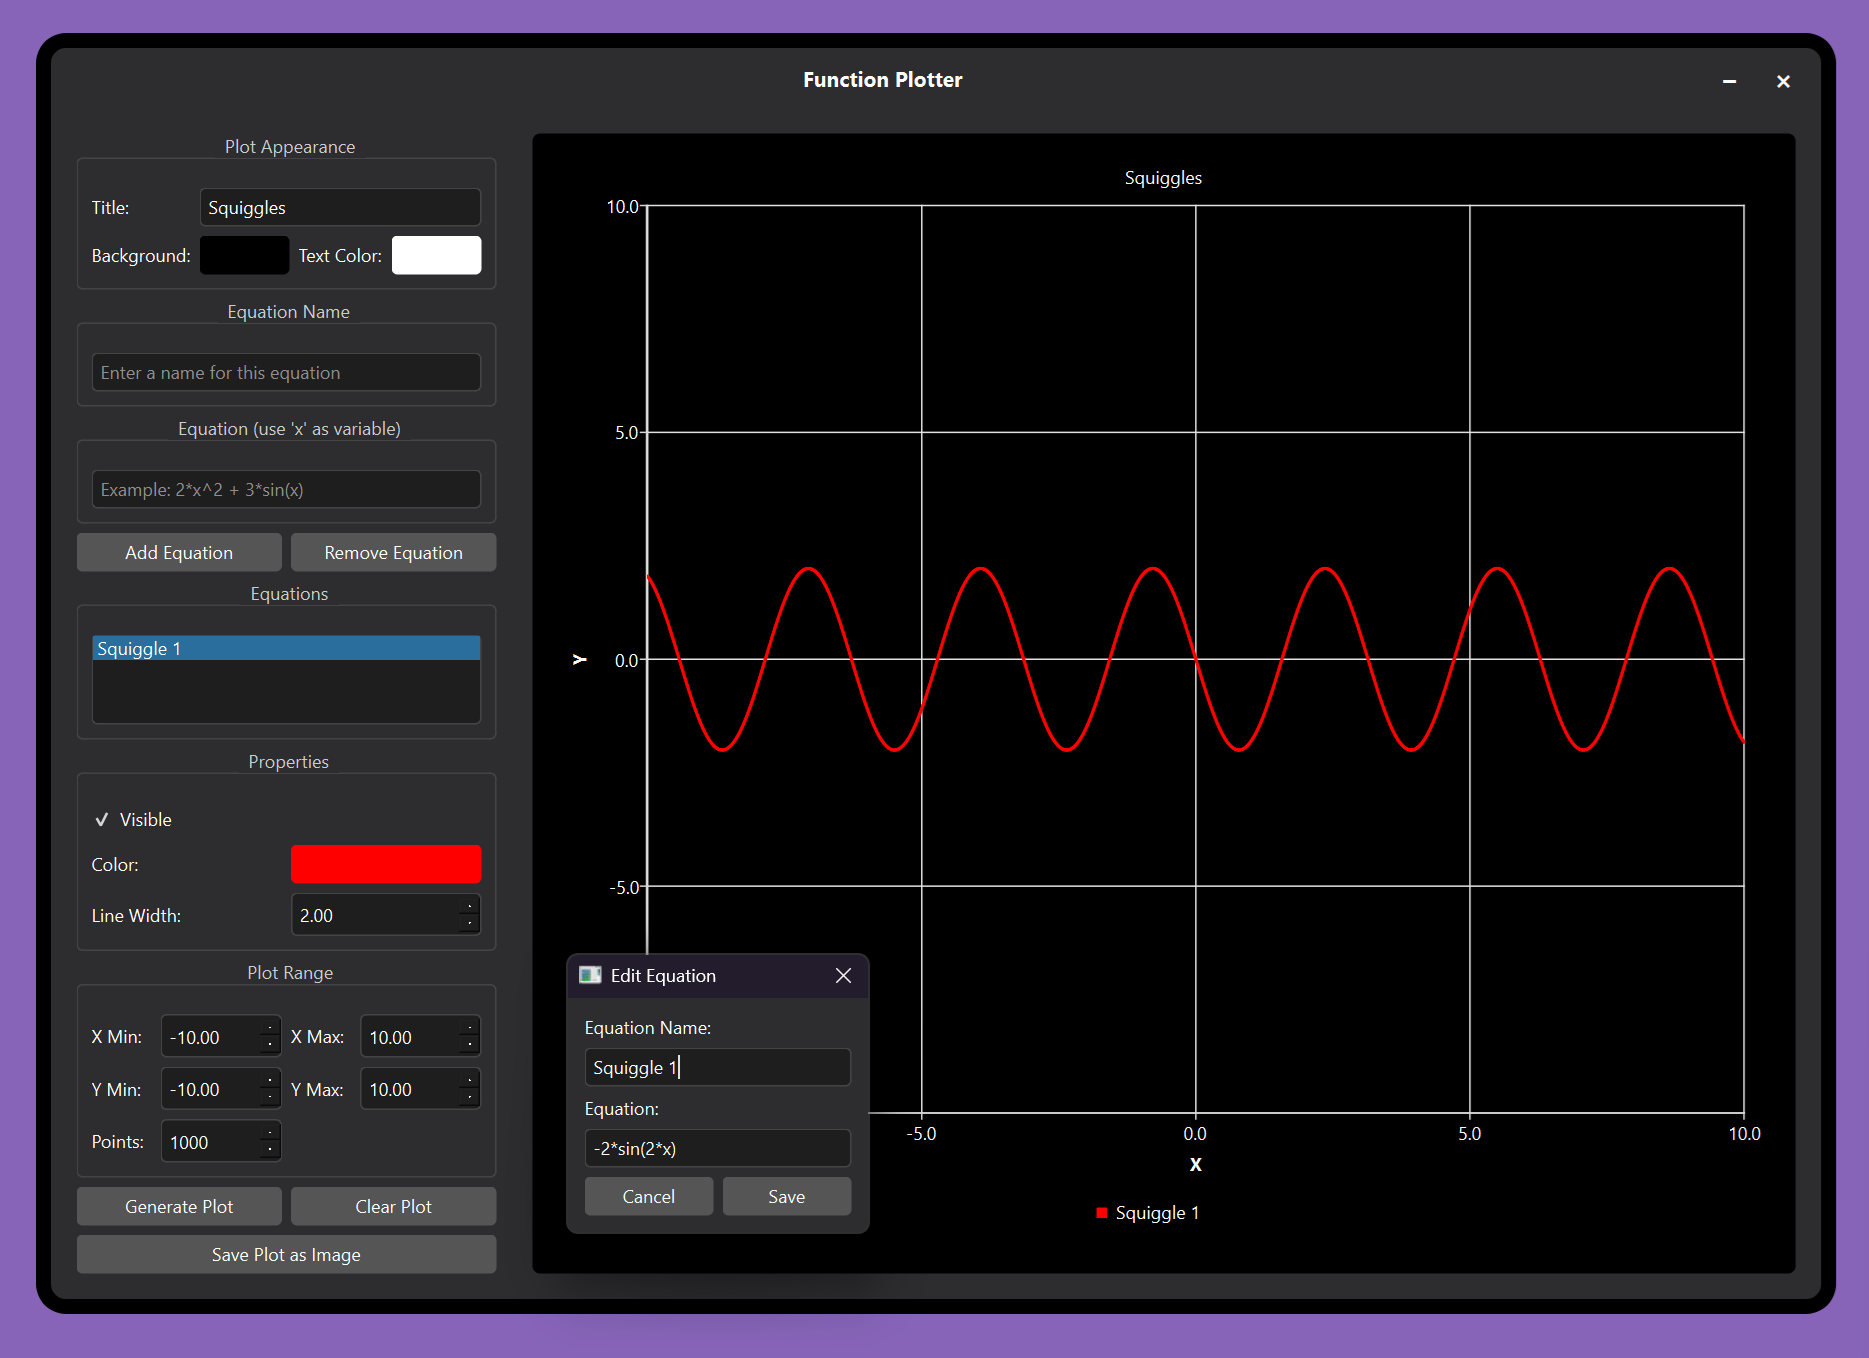
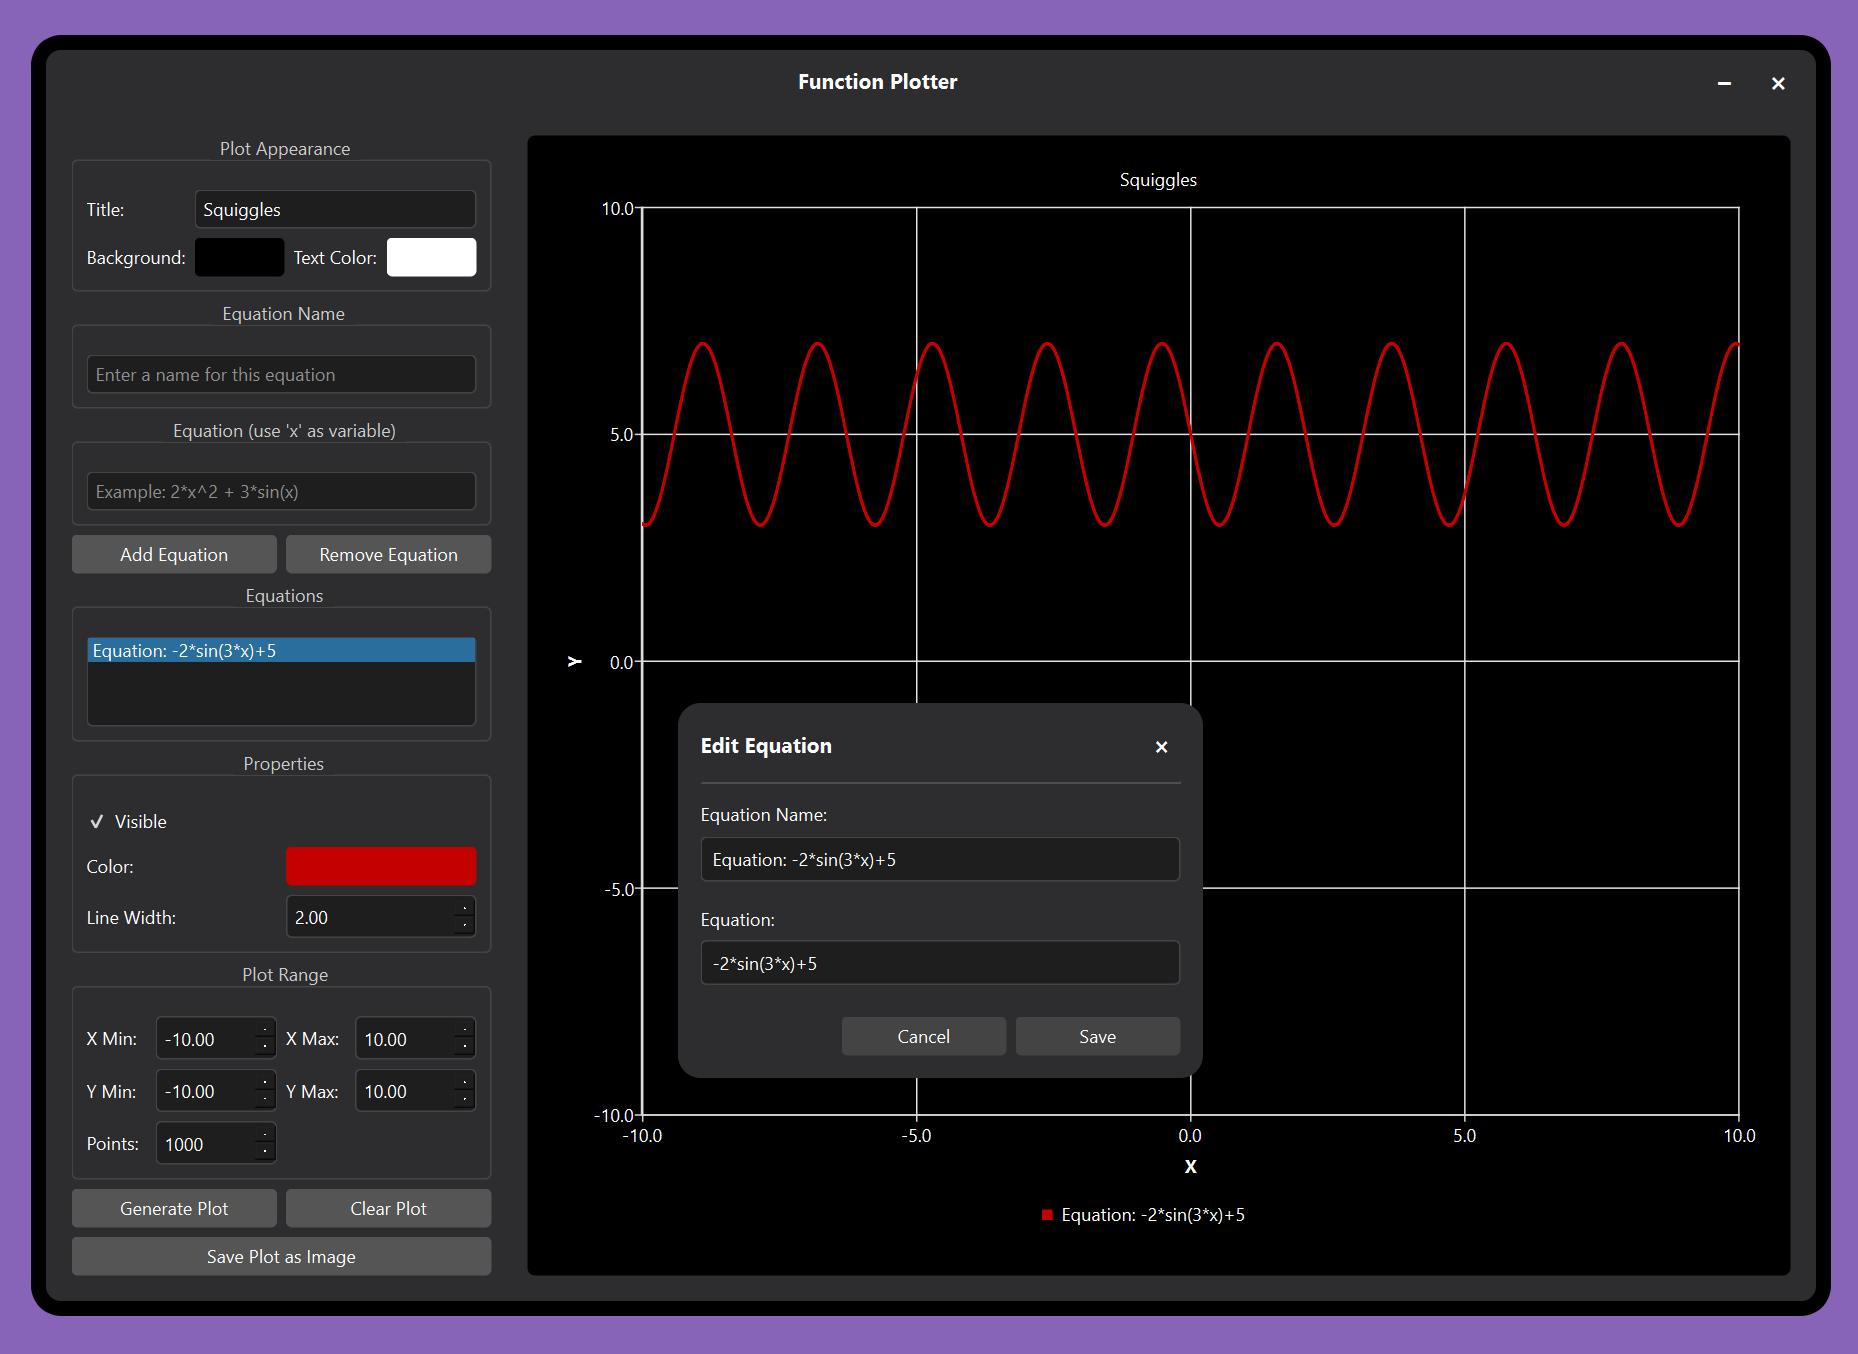
Modified Edit Equation Popup Appearance
Modified the Edit Equation dialog popup box's appearance and replaced the screenshot used in the README

diff --git a/PlotterApp.cpp b/PlotterApp.cpp
@@ -921,23 +921,66 @@ void PlotterMainWindow::onEquationDoubleClicked(QListWidgetItem *item)
         // Get current equation
         EquationPlot &plot = plots[row];
 
-        // Create a dialog for editing
-        QDialog dialog(this);
-        dialog.setWindowTitle("Edit Equation");
+        // Create a custom dialog for editing
+        CustomDialog dialog(this);
 
         QVBoxLayout *layout = new QVBoxLayout(&dialog);
+        layout->setContentsMargins(15, 15, 15, 15); // Add padding inside dialog
+
+        // Create a custom title bar
+        QWidget *titleBar = new QWidget(&dialog);
+        QHBoxLayout *titleBarLayout = new QHBoxLayout(titleBar);
+        titleBarLayout->setContentsMargins(0, 0, 0, 5);
+
+        QLabel *titleLabel = new QLabel("Edit Equation", titleBar);
+        titleLabel->setStyleSheet("color: white; font-weight: bold; font-size: 14px;");
+
+        QPushButton *closeButton = new QPushButton("×", titleBar);
+        closeButton->setFixedSize(25, 25);
+        closeButton->setStyleSheet(R"(
+            QPushButton {
+                color: white;
+                background-color: transparent;
+                border: none;
+                font-size: 16px;
+                font-weight: bold;
+            }
+            QPushButton:hover {
+                background-color: #e81123;
+                border-radius: 12px;
+            }
+        )");
+        connect(closeButton, &QPushButton::clicked, &dialog, &QDialog::reject);
+
+        titleBarLayout->addWidget(titleLabel);
+        titleBarLayout->addStretch();
+        titleBarLayout->addWidget(closeButton);
+
+        layout->addWidget(titleBar);
+
+        // Add a line separator
+        QFrame *line = new QFrame(&dialog);
+        line->setFrameShape(QFrame::HLine);
+        line->setFrameShadow(QFrame::Sunken);
+        line->setStyleSheet("background-color: #444444;");
+        layout->addWidget(line);
+        layout->addSpacing(5);
 
         // Name field
         QLabel *nameLabel = new QLabel("Equation Name:", &dialog);
+        nameLabel->setStyleSheet("color: white;");
         QLineEdit *nameEdit = new QLineEdit(plot.name, &dialog);
         layout->addWidget(nameLabel);
         layout->addWidget(nameEdit);
+        layout->addSpacing(10);
 
         // Equation field
         QLabel *equationLabel = new QLabel("Equation:", &dialog);
+        equationLabel->setStyleSheet("color: white;");
         QLineEdit *equationEdit = new QLineEdit(plot.equation, &dialog);
         layout->addWidget(equationLabel);
         layout->addWidget(equationEdit);
+        layout->addSpacing(15);
 
         // Buttons
         QHBoxLayout *buttonLayout = new QHBoxLayout();
@@ -945,13 +988,57 @@ void PlotterMainWindow::onEquationDoubleClicked(QListWidgetItem *item)
         QPushButton *saveButton = new QPushButton("Save", &dialog);
         saveButton->setDefault(true);
 
+        // Style buttons
+        QString buttonStyle = R"(
+            QPushButton {
+                background-color: #444444;
+                color: white;
+                border: none;
+                border-radius: 4px;
+                padding: 5px 15px;
+                min-width: 80px;
+            }
+            QPushButton:hover {
+                background-color: #555555;
+            }
+            QPushButton:pressed {
+                background-color: #333333;
+            }
+        )";
+
+        cancelButton->setStyleSheet(buttonStyle);
+        saveButton->setStyleSheet(buttonStyle);
+
+        buttonLayout->addStretch();
         buttonLayout->addWidget(cancelButton);
         buttonLayout->addWidget(saveButton);
         layout->addLayout(buttonLayout);
 
+        // Overall dialog styling for child widgets
+        dialog.setStyleSheet(R"(
+            QLineEdit {
+                background-color: #1e1e1e;
+                color: white;
+                border: 1px solid #444444;
+                border-radius: 4px;
+                padding: 5px;
+                selection-background-color: #3a7ca8;
+            }
+        )");
+
         // Connect buttons
         connect(cancelButton, &QPushButton::clicked, &dialog, &QDialog::reject);
         connect(saveButton, &QPushButton::clicked, &dialog, &QDialog::accept);
+
+        // Add drag support for the title bar
+        titleBar->installEventFilter(new DialogMoveFilter(&dialog, titleBar));
+
+        // Make dialog a reasonable size
+        dialog.resize(350, 250);
+
+        // Center dialog over parent
+        QRect parentGeometry = geometry();
+        dialog.move(parentGeometry.center() - dialog.rect().center());
 
         // Show dialog and process result
         if (dialog.exec() == QDialog::Accepted) {
@@ -1008,3 +1095,4 @@ void PlotterMainWindow::onSavePlotAsImageClicked()
         }
     }
 }
+

diff --git a/PlotterApp.h b/PlotterApp.h
@@ -133,4 +133,80 @@ private:
     ResizeMode m_resizeMode = ResizeMode::None;
 };
 
+class CustomDialog : public QDialog
+{
+    Q_OBJECT
+public:
+    explicit CustomDialog(QWidget *parent = nullptr)
+        : QDialog(parent)
+    {
+        setWindowFlags(Qt::Dialog | Qt::FramelessWindowHint);
+        setAttribute(Qt::WA_TranslucentBackground);
+    }
+
+protected:
+    void paintEvent(QPaintEvent *event) override {
+        Q_UNUSED(event);
+
+        QPainter painter(this);
+        painter.setRenderHint(QPainter::Antialiasing);
+
+        // Clear the entire dialog (fully transparent)
+        painter.setCompositionMode(QPainter::CompositionMode_Clear);
+        painter.fillRect(rect(), Qt::transparent);
+
+        // Switch back to normal composition
+        painter.setCompositionMode(QPainter::CompositionMode_SourceOver);
+
+        // Draw a rounded rectangle for the entire dialog
+        int radius = 15; // The corner radius
+        QPainterPath path;
+        path.addRoundedRect(rect(), radius, radius);
+
+        // Fill with a background color that matches the main window
+        painter.setBrush(QColor(45, 45, 48));
+        painter.setPen(Qt::NoPen);
+
+        painter.drawPath(path);
+    }
+};
+
+class DialogMoveFilter : public QObject {
+public:
+    DialogMoveFilter(QDialog *dialog, QWidget *titleBar)
+        : QObject(titleBar), m_dialog(dialog), m_titleBar(titleBar), m_dragging(false) {}
+
+protected:
+    bool eventFilter(QObject *obj, QEvent *event) override {
+        if (obj == m_titleBar) {
+            QMouseEvent *mouseEvent = static_cast<QMouseEvent*>(event);
+
+            if (event->type() == QEvent::MouseButtonPress) {
+                if (mouseEvent->button() == Qt::LeftButton) {
+                    m_dragging = true;
+                    m_dragPosition = mouseEvent->globalPosition().toPoint() - m_dialog->frameGeometry().topLeft();
+                    return true;
+                }
+            }
+            else if (event->type() == QEvent::MouseMove) {
+                if (m_dragging) {
+                    m_dialog->move(mouseEvent->globalPosition().toPoint() - m_dragPosition);
+                    return true;
+                }
+            }
+            else if (event->type() == QEvent::MouseButtonRelease) {
+                m_dragging = false;
+                return true;
+            }
+        }
+        return QObject::eventFilter(obj, event);
+    }
+
+private:
+    QDialog *m_dialog;
+    QWidget *m_titleBar;
+    bool m_dragging;
+    QPoint m_dragPosition;
+};
+
 #endif
